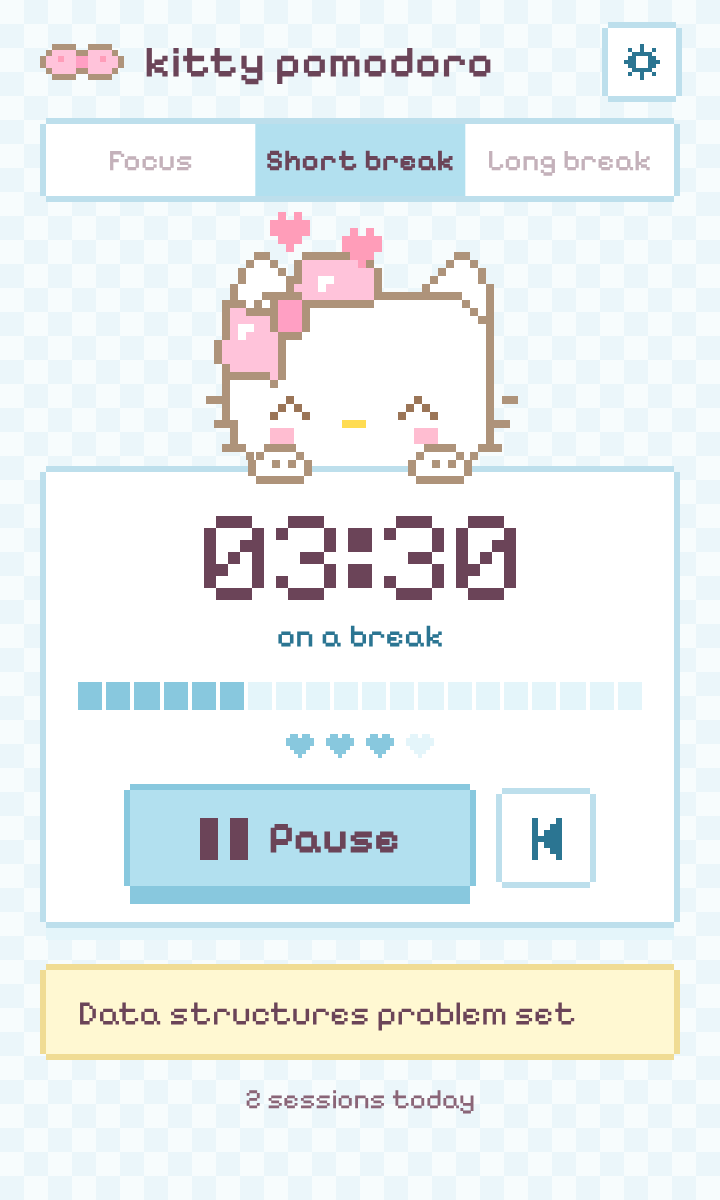
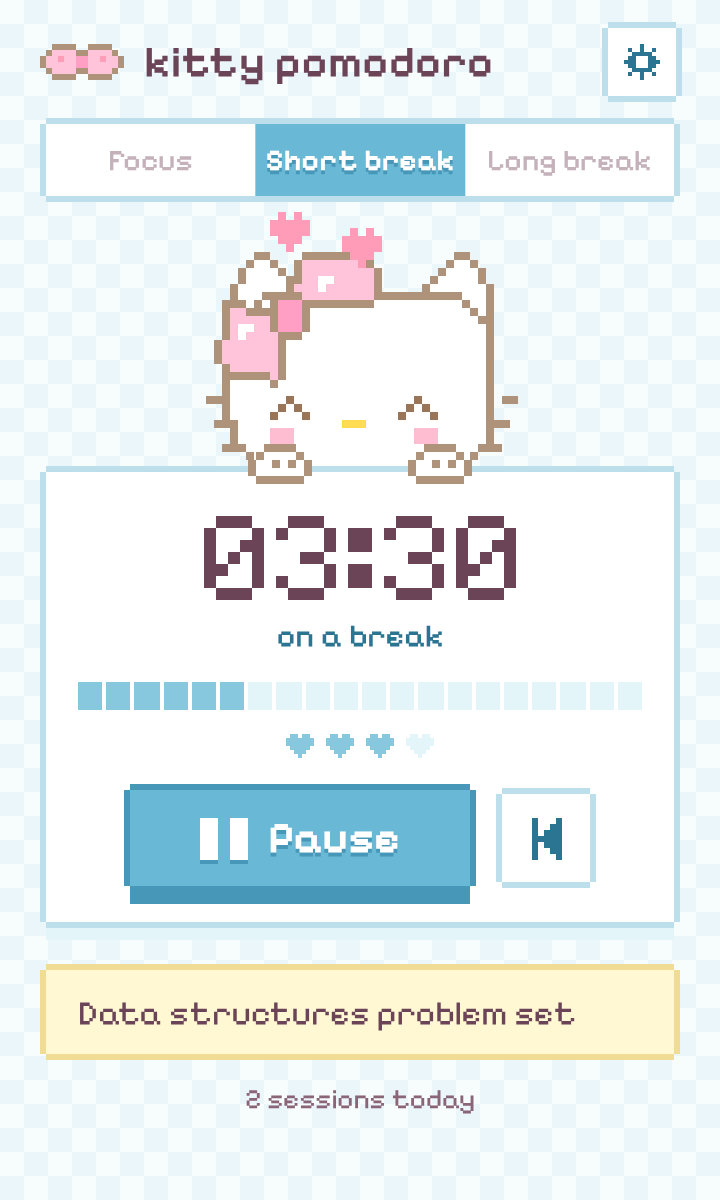
Use white text on the main button and selected tab
Deepen the button fill per mode and add a small pixel drop shadow under the
label so white text stays readable.

Claude-Session: https://claude.ai/code/session_012mjSf1ZdyMqoJ7eBazi53s

Changed region(s): [[0.1528, 0.6475, 0.6722, 0.7708], [0.3361, 0.0925, 0.6722, 0.185]]

diff --git a/popup/popup.css b/popup/popup.css
@@ -25,6 +25,8 @@ body[data-mode='focus'] {
   --accent-deep: #ee8dab;
   --accent-soft: #ffe4ec;
   --accent-ink: #b04a70;
+  --btn: #ec82a4;
+  --btn-deep: #cf5f86;
   --line: #f2bccd;
   --bg: #fff7fa;
   --bg2: #ffeef3;
@@ -34,6 +36,8 @@ body[data-mode='short'] {
   --accent-deep: #88c8de;
   --accent-soft: #e4f5fa;
   --accent-ink: #2b7592;
+  --btn: #69b9d6;
+  --btn-deep: #4797b8;
   --line: #bddfec;
   --bg: #f7fcfd;
   --bg2: #ebf6fa;
@@ -43,6 +47,8 @@ body[data-mode='long'] {
   --accent-deep: #b6a2e6;
   --accent-soft: #f0eafb;
   --accent-ink: #6a54b0;
+  --btn: #a48ddf;
+  --btn-deep: #8368c8;
   --line: #d8cdf1;
   --bg: #fbf9fe;
   --bg2: #f2edfb;
@@ -133,7 +139,7 @@ svg { display: block; }
   bottom: 0;
   left: 0;
   width: calc(100% / 3);
-  background: var(--accent);
+  background: var(--btn);
   transform: translateX(calc(var(--i, 0) * 100%));
   transition: transform var(--t-slide) steps(5), background-color var(--t-out) steps(2);
 }
@@ -145,7 +151,7 @@ svg { display: block; }
   font-weight: 500;
   color: var(--muted);
 }
-.tab[aria-selected='true'] { color: var(--ink); font-weight: 700; }
+.tab[aria-selected='true'] { color: #fff; font-weight: 700; text-shadow: 0 2px 0 var(--btn-deep); }
 body[data-status='running'] .tab:not([aria-selected='true']) { opacity: 0.5; cursor: default; }
 
 /* ---------- stage ---------- */
@@ -292,7 +298,7 @@ body.celebrate .k-spark { animation: twinkle 0.9s step-end infinite; }
 /* ---------- controls ---------- */
 .controls { display: flex; align-items: center; justify-content: center; gap: 16px; margin-top: 16px; }
 .btn-main {
-  --b: var(--accent-deep);
+  --b: var(--btn-deep);
   display: flex;
   align-items: center;
   justify-content: center;
@@ -302,8 +308,9 @@ body.celebrate .k-spark { animation: twinkle 0.9s step-end infinite; }
   padding: 0 20px;
   font-size: 22px;
   font-weight: 700;
-  color: var(--ink);
-  background: var(--accent);
+  color: #fff;
+  text-shadow: 0 2px 0 var(--btn-deep);
+  background: var(--btn);
   box-shadow:
     0 calc(var(--px) * -1) 0 0 var(--b),
     0 var(--px) 0 0 var(--b),
@@ -321,7 +328,7 @@ body.celebrate .k-spark { animation: twinkle 0.9s step-end infinite; }
     var(--px) 0 0 0 var(--b);
   transition-duration: var(--t-press);
 }
-.btn-main .ic-play, .btn-main .ic-pause { display: grid; place-items: center; }
+.btn-main .ic-play, .btn-main .ic-pause { display: grid; place-items: center; filter: drop-shadow(0 2px 0 var(--btn-deep)); }
 .btn-main .ic-pause { display: none; }
 body[data-status='running'] .btn-main .ic-play { display: none; }
 body[data-status='running'] .btn-main .ic-pause { display: grid; }
